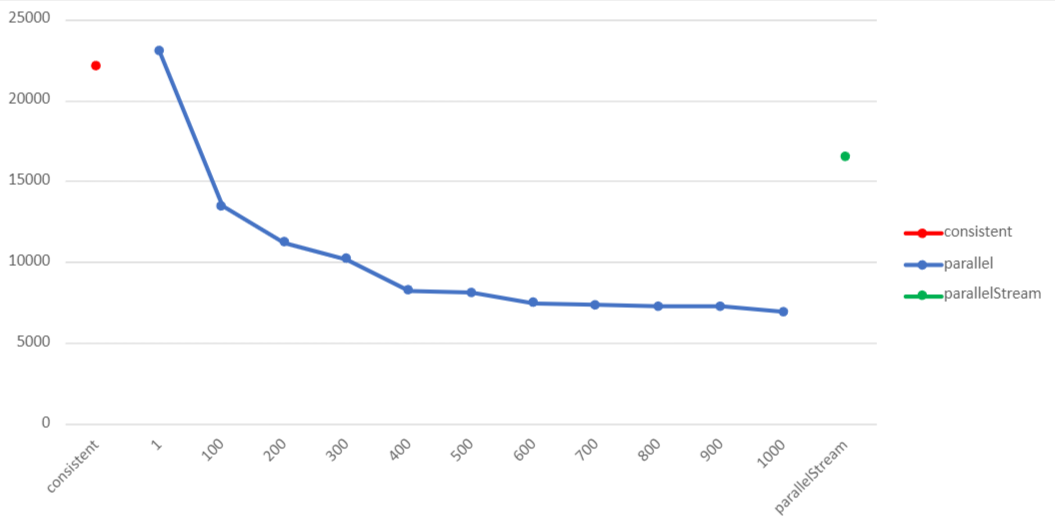
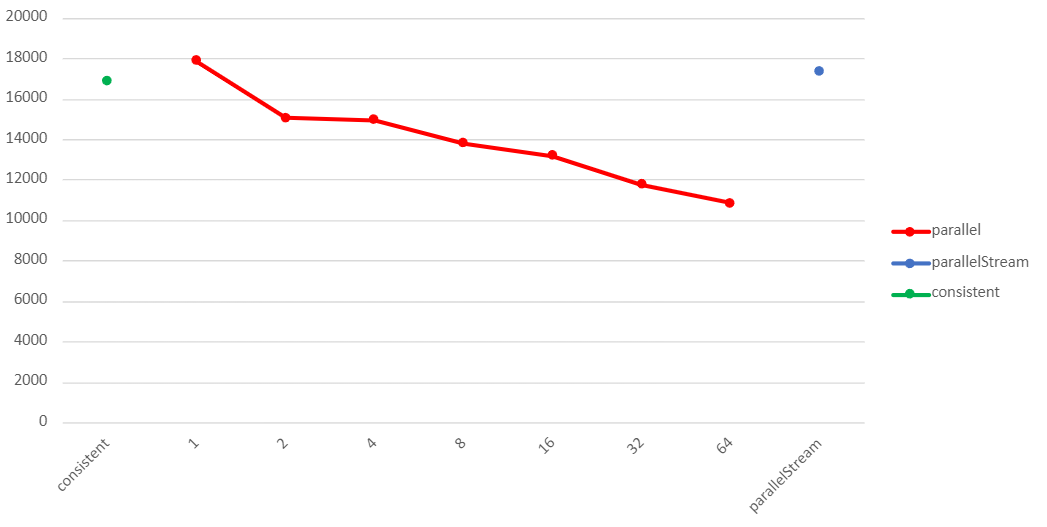
Task_2_1_1

diff --git a/Task_2_1_1/src/main/java/ru/nsu/primakova/Main.java b/Task_2_1_1/src/main/java/ru/nsu/primakova/Main.java
@@ -1,0 +1,55 @@
+package ru.nsu.primakova;
+
+import java.io.BufferedReader;
+import java.io.FileReader;
+import java.io.IOException;
+import java.util.concurrent.ExecutionException;
+import java.util.stream.Collectors;
+import java.util.stream.Stream;
+import ru.nsu.primakova.hascompositecheck.Consistent;
+import ru.nsu.primakova.hascompositecheck.Parallel;
+import ru.nsu.primakova.hascompositecheck.ParallelStream;
+
+/**
+ * Class Main.
+ */
+public class Main {
+
+    /**
+     * main.
+     */
+    public static void main(String[] args) throws InterruptedException, IOException, ExecutionException {
+        var reader = new BufferedReader(new FileReader("test"));
+        var currentLine = reader.readLine();
+        reader.close();
+        var list = Stream.of(currentLine.substring(1, currentLine.length() - 1).split(", ")).map(Integer::parseInt).collect(Collectors.toList());
+
+        long startTime;
+        long endTime;
+
+        var a = new Consistent();
+        System.out.print("Consistent: ");
+        startTime = System.currentTimeMillis();
+        System.out.print(a.isCompositeInArray(list) + " ");
+        endTime = System.currentTimeMillis();
+        System.out.println(endTime - startTime);
+
+        var b = new ParallelStream();
+        System.out.print("ParallelStream: ");
+        startTime = System.currentTimeMillis();
+        System.out.print(b.isCompositeInArray(list) + " ");
+        endTime = System.currentTimeMillis();
+        System.out.println(endTime - startTime);
+
+        System.out.println("Parallel:");
+        for (int i = 1; i <= 64; i *=2 ) {
+            Parallel c;
+            c = new Parallel(i);
+            System.out.print(i + " ");
+            startTime = System.currentTimeMillis();
+            System.out.print(c.isCompositeInArray(list) + " ");
+            endTime = System.currentTimeMillis();
+            System.out.println(endTime - startTime);
+        }
+    }
+}

diff --git a/Task_2_1_1/src/test/java/ru/nsu/primakova/hascompositecheck/TestParallel.java b/Task_2_1_1/src/test/java/ru/nsu/primakova/hascompositecheck/TestParallel.java
@@ -17,7 +17,7 @@ public class TestParallel {
     public void test1() throws InterruptedException {
         int[] arr = {3, 17, 11, 4, 5};
         List<Integer> list = Arrays.stream(arr).boxed().collect(Collectors.toList());
-        var parl = new Parallel();
+        var parl = new Parallel(2);
         assertTrue(parl.isCompositeInArray(list));
     }
 
@@ -25,7 +25,7 @@ public class TestParallel {
     public void test2() throws InterruptedException {
         int[] arr = {20319251, 6997901, 6997927, 6997937, 17858849, 6997967, 6998009, 6998029, 6998039, 20165149, 6998051, 6998053};
         List<Integer> list = Arrays.stream(arr).boxed().collect(Collectors.toList());
-        var parl = new Parallel();
+        var parl = new Parallel(3);
         assertFalse(parl.isCompositeInArray(list));
     }
 
@@ -41,7 +41,7 @@ public class TestParallel {
     public void test4() throws InterruptedException {
         int[] arr = {29};
         List<Integer> list = Arrays.stream(arr).boxed().collect(Collectors.toList());
-        var parl = new Parallel();
+        var parl = new Parallel(1);
         assertFalse(parl.isCompositeInArray(list));
     }
 
@@ -49,7 +49,7 @@ public class TestParallel {
     public void test5() throws InterruptedException {
         int[] arr = {19, 37, 83};
         List<Integer> list = Arrays.stream(arr).boxed().collect(Collectors.toList());
-        var parl = new Parallel();
+        var parl = new Parallel(2);
         assertFalse(parl.isCompositeInArray(list));
     }
 

diff --git a/Task_2_1_1/src/test/java/ru/nsu/primakova/hascompositecheck/ForTests.java b/Task_2_1_1/src/test/java/ru/nsu/primakova/hascompositecheck/ForTests.java
@@ -1,0 +1,35 @@
+package ru.nsu.primakova.hascompositecheck;
+
+import static ru.nsu.primakova.hascompositecheck.CompositeNumbers.isComposite;
+
+import java.io.BufferedWriter;
+import java.io.FileWriter;
+import java.io.IOException;
+import java.util.ArrayList;
+
+/**
+ * Class ForTests.
+ */
+public class ForTests {
+    /**
+     * Creates a list of prime numbers.
+     *
+     * @param n - number of numbers in list.
+     * @throws IOException - .
+     */
+    public static void testFile(int n) throws IOException {
+        var arr = new ArrayList<Integer>();
+        int count = 0;
+        for (int i = Integer.MAX_VALUE; i > 0; i -= 2) {
+            if (count == n) {
+                break;
+            } else if (!isComposite(i)) {
+                arr.add(i);
+                count++;
+            }
+        }
+        var writer = new BufferedWriter(new FileWriter("test"));
+        writer.write(arr.toString());
+        writer.close();
+    }
+}

diff --git a/Task_2_1_1/src/test/java/ru/nsu/primakova/hascompositecheck/TestCompositeNumbers.java b/Task_2_1_1/src/test/java/ru/nsu/primakova/hascompositecheck/TestCompositeNumbers.java
@@ -21,7 +21,7 @@ public class TestCompositeNumbers {
 
     @Test
     public void test3() {
-        assertTrue(CompositeNumbers.isComposite(27));
+        assertTrue(CompositeNumbers.isComposite(1));
     }
 
     @Test
